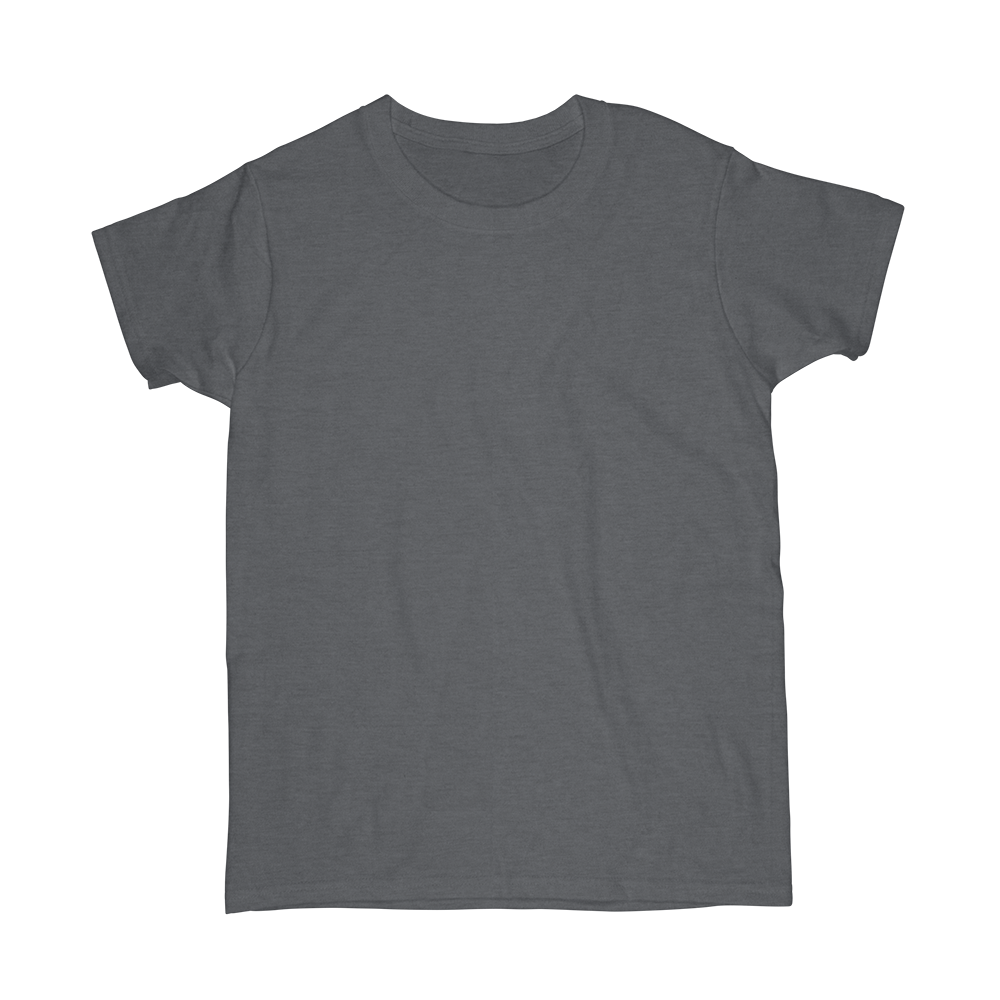
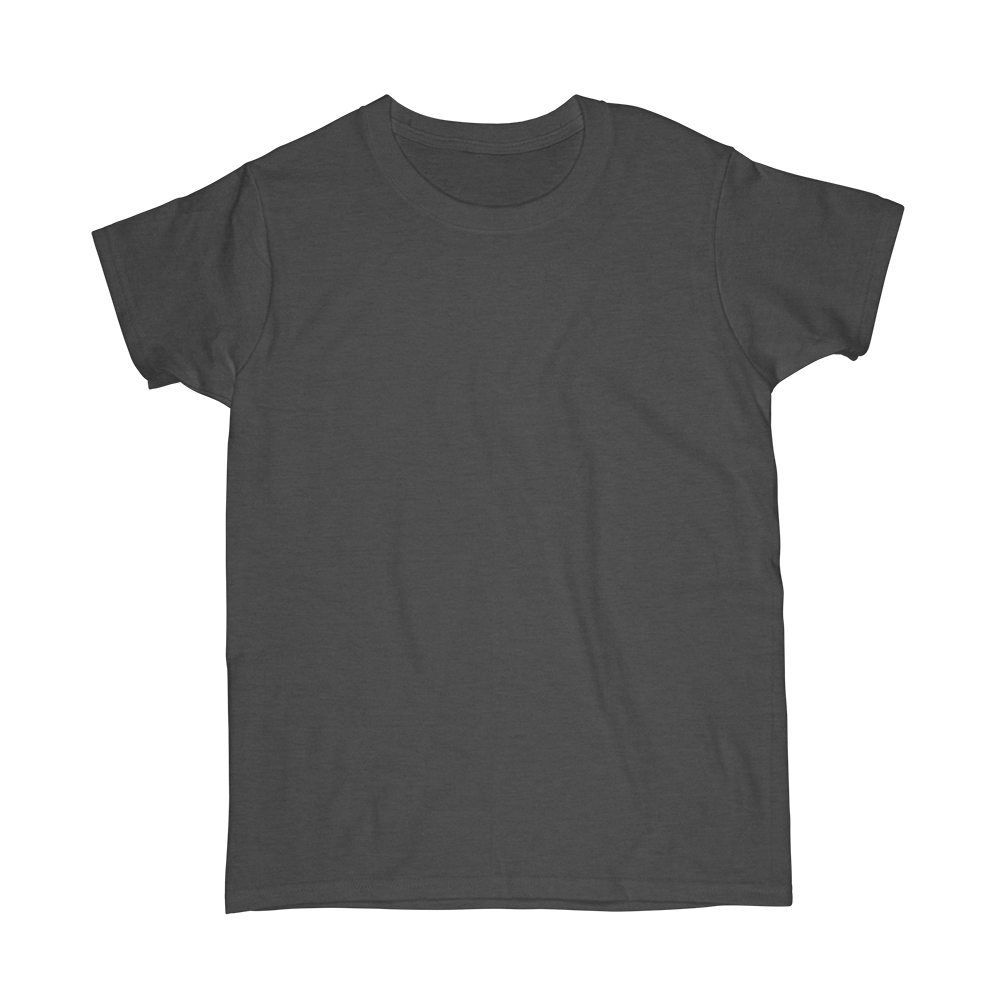
new gray

diff --git a/app/assets/stylesheets/custom.scss b/app/assets/stylesheets/custom.scss
@@ -62,6 +62,9 @@ body { background-color: #35414A; color: #F4F6F8;}
 		.black { background-color: #0c0c0c;
 			&:hover { border: 2px solid #0c0c0c; cursor: pointer; }
 		}
+		.gray { background-color: #474747;
+			&:hover { border: 2px solid #474747; cursor: pointer; }
+		}
 		.white { background-color: #fdfdfd;
 			&:hover { border: 2px solid #fdfdfd; cursor: pointer; }
 		}

diff --git a/app/controllers/tees_controller.rb b/app/controllers/tees_controller.rb
@@ -14,6 +14,7 @@ class TeesController < ShopifyApp::AuthenticatedController
     if params[:commit].present?
 
       session[:colors] =  [params[:checkbox_black],
+                          params[:checkbox_gray],
                           params[:checkbox_white],
                           params[:checkbox_navy],
                           params[:checkbox_green],
@@ -79,7 +80,7 @@ class TeesController < ShopifyApp::AuthenticatedController
   end
 
   def reset_tee_session 
-    session[:colors] = ["Black", "White"]
+    session[:colors] = ["Black", "Gray", "White"]
     session[:sizes] = ["XS", "S", "M", "L", "XL", "2XL", ""]
     session[:front_name] = ""
     session[:back_name] = ""

diff --git a/app/controllers/home_controller.rb b/app/controllers/home_controller.rb
@@ -1,7 +1,7 @@
 class HomeController < ShopifyApp::AuthenticatedController
     def index
         #@products = ShopifyAPI::Product.find(:all, params: { limit: 10 })
-        session[:colors] = ["Black", "White"]
+        session[:colors] = ["Black", "Gray", "White"]
         session[:sizes] = ["XS", "S", "M", "L", "XL", "2XL", ""]
         session[:front_name] = ""
         session[:back_name] = ""
